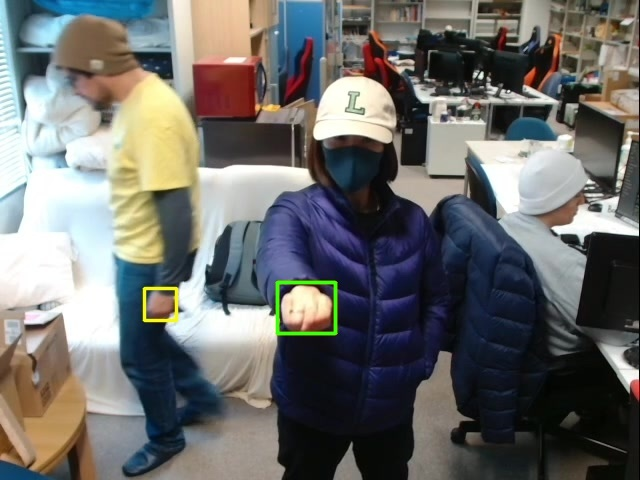
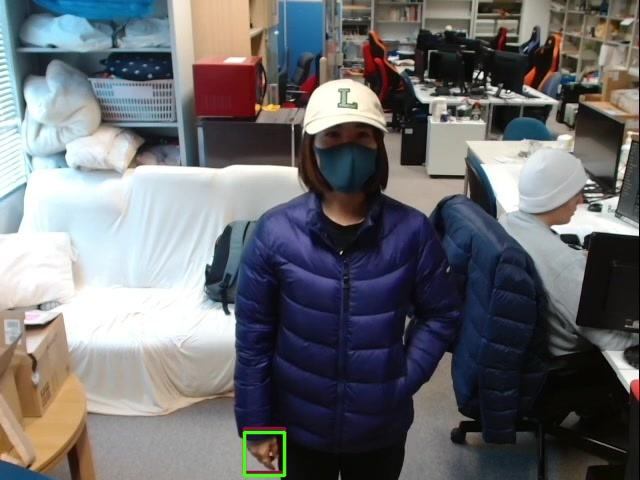
copy a specific box

diff --git a/box_selectc.py b/box_selectc.py
@@ -18,17 +18,17 @@ fin_mode = True
 frames_path = "C:\\Users\\Luis Bringas\\Desktop\\NEW_IPN_final_frames"
 # frames_path = "C:/Users/gjben/Documents/yolov5/runs/detect/frames"
 #frames_path = "E:/datasets/IPN_hand/frames"
-# frames_path = "D:/data/IPN_hand/frames" 
+frames_path = "I:/data/IPN_hand/frames" 
 
 if fin_mode:
 	txt_folder = "NEW_IPN_annotations_txt"
 	# txt_folder = "final_test_annots"
-	# txt_folder = "annots"
+	txt_folder = "annots"
 	# init_path = "F:\\IPN_Hand\\annotations\\final_annots_yolo\\" + txt_folder
 	init_path = "C:\\Users\\Luis Bringas\\Desktop\\" + txt_folder
 	#init_path = "C:\\Users\\Luis Bringas\\Desktop\\New_gt\\" + txt_folder
 	#init_path = "D:/Pytorch/yolov5/runs/test_gordo/" + txt_folder
-	# init_path = "D:/data/IPN_hand/" + txt_folder
+	init_path = "I:/data/IPN_hand/" + txt_folder
 else:
 	txt_folder = "NEW_IPN_annotations_txt"
 	init_path = "C:\\Users\\Luis Bringas\\Desktop\\" + txt_folder
@@ -113,7 +113,7 @@ class UI(QMainWindow):
 		self.shi_K = QShortcut(QKeySequence('Shift+K'), self)
 		self.shi_K.activated.connect(self.play_back)
 		self.shi_Z = QShortcut(QKeySequence('Shift+Z'), self)
-		self.shi_Z.activated.connect(self.copy_bbox)
+		self.shi_Z.activated.connect(self.copy_txt)
 		self.shi_S = QShortcut(QKeySequence('Shift+S'), self)
 		self.shi_S.activated.connect(lambda: self.change_spb('H1_0'))
 		self.shi_D = QShortcut(QKeySequence('Shift+D'), self)
@@ -122,8 +122,25 @@ class UI(QMainWindow):
 		self.shi_X.activated.connect(lambda: self.change_spb('W1_0'))
 		self.shi_C = QShortcut(QKeySequence('Shift+C'), self)
 		self.shi_C.activated.connect(lambda: self.change_spb('W2_0'))
+
 		self.ctrl_zero = QShortcut(QKeySequence('Ctrl+0'), self)
 		self.ctrl_zero.activated.connect(self.active_track)
+		self.shi_1 = QShortcut(QKeySequence('Shift+1'), self)
+		self.shi_1.activated.connect(lambda: self.copy_bbox(0))
+		self.shi_2 = QShortcut(QKeySequence('Shift+2'), self)
+		self.shi_2.activated.connect(lambda: self.copy_bbox(1))
+		self.shi_3 = QShortcut(QKeySequence('Shift+3'), self)
+		self.shi_3.activated.connect(lambda: self.copy_bbox(2))
+		self.shi_4 = QShortcut(QKeySequence('Shift+4'), self)
+		self.shi_4.activated.connect(lambda: self.copy_bbox(3))
+		self.ctrl_1 = QShortcut(QKeySequence('Ctrl+1'), self)
+		self.ctrl_1.activated.connect(lambda: self.copy_bbox(0,-1))
+		self.ctrl_2 = QShortcut(QKeySequence('Ctrl+2'), self)
+		self.ctrl_2.activated.connect(lambda: self.copy_bbox(1,-1))
+		self.ctrl_3 = QShortcut(QKeySequence('Ctrl+3'), self)
+		self.ctrl_3.activated.connect(lambda: self.copy_bbox(2,-1))
+		self.ctrl_4 = QShortcut(QKeySequence('Ctrl+4'), self)
+		self.ctrl_4.activated.connect(lambda: self.copy_bbox(3,-1))
 
 		# Click the dropdown box
 		self.button.clicked.connect(self.clicker)
@@ -546,7 +563,7 @@ class UI(QMainWindow):
 		else:
 			return
 
-	def copy_bbox(self, idx=1):
+	def copy_txt(self, idx=1):
 		if self.pflag or self.sp_H1.isVisible():
 			return
 		txt_path = self.sele_path + os.path.basename(self.bad_list[self.i])
@@ -555,7 +572,7 @@ class UI(QMainWindow):
 			if os.path.exists(prev_path):
 				shutil.copy(prev_path, txt_path)
 				self.setClean_mode(self.i)
-				self.label_msg.setText("BBOX Copiado!!")
+				self.label_msg.setText("TXT Copiado!!")
 				self.set_idc(2)
 			else:
 				print("NOT FOUND {}".format(os.path.basename(self.bad_list[self.i+idx])))
@@ -678,6 +695,38 @@ class UI(QMainWindow):
 	def close_rep(self):
 		self.report_win.close()
 
+	def copy_bbox(self, idx=0, prev=1, iou_th=0.35):
+		if self.pflag or self.sp_H1.isVisible():
+			return
+		self.setClean_mode(self.i)
+		prev_path = self.sele_path + os.path.basename(self.bad_list[self.i-prev])
+		if os.path.exists(prev_path):
+			txt_prev = self.read_txt(prev_path)
+			try:
+				new_box = txt_prev[idx]
+			except:
+				print("WARNING: No bbox with ID={} found in prev. frame".format(idx+1))
+				return
+			flag = False
+			for cur_bbox in self.text_chosen:
+				iou = calculate_iou_yolo(new_box, cur_bbox, self.img_size[0], self.img_size[1])
+				if iou >= iou_th:
+					flag = True
+					break
+			if not flag:
+				self.text_chosen.append(new_box)
+			else:
+				print("WARNING: Can't copy bbox with iou {}".format(iou))
+				return
+			txt_path = os.path.join(self.sele_path, os.path.basename(self.bad_list[self.i]))
+			if self.text_chosen is not None:
+				self.write_txt(txt_path, self.text_chosen)
+			self.setClean_mode(self.i)
+			self.label_msg.setText("BBOX Copiado!!")
+			self.set_idc(2)
+		else:
+			print("NOT FOUND {}".format(os.path.basename(self.bad_list[self.i-prev])))
+
 	def active_hand(self, frame_i=None, idx_=None):
 		if self.pflag:
 			return
@@ -711,8 +760,8 @@ class UI(QMainWindow):
 		if self.text_chosen is not None:
 			self.write_txt(txt_path, self.text_chosen)
 
-	def active_track(self, iou_th=0.45):
-		if self.pflag:
+	def active_track(self, iou_th=0.28):
+		if self.pflag or self.sp_H1.isVisible():
 			return
 		if not self.f_ins:
 			return
@@ -778,7 +827,7 @@ class UI(QMainWindow):
 		if e.key() == Qt.Key_K:
 			self.back_(True)
 		if e.key() == Qt.Key_Z:
-			self.copy_bbox(-1)
+			self.copy_txt(-1)
 		if e.key() == Qt.Key_F:
 			self.del_chosen()
 
